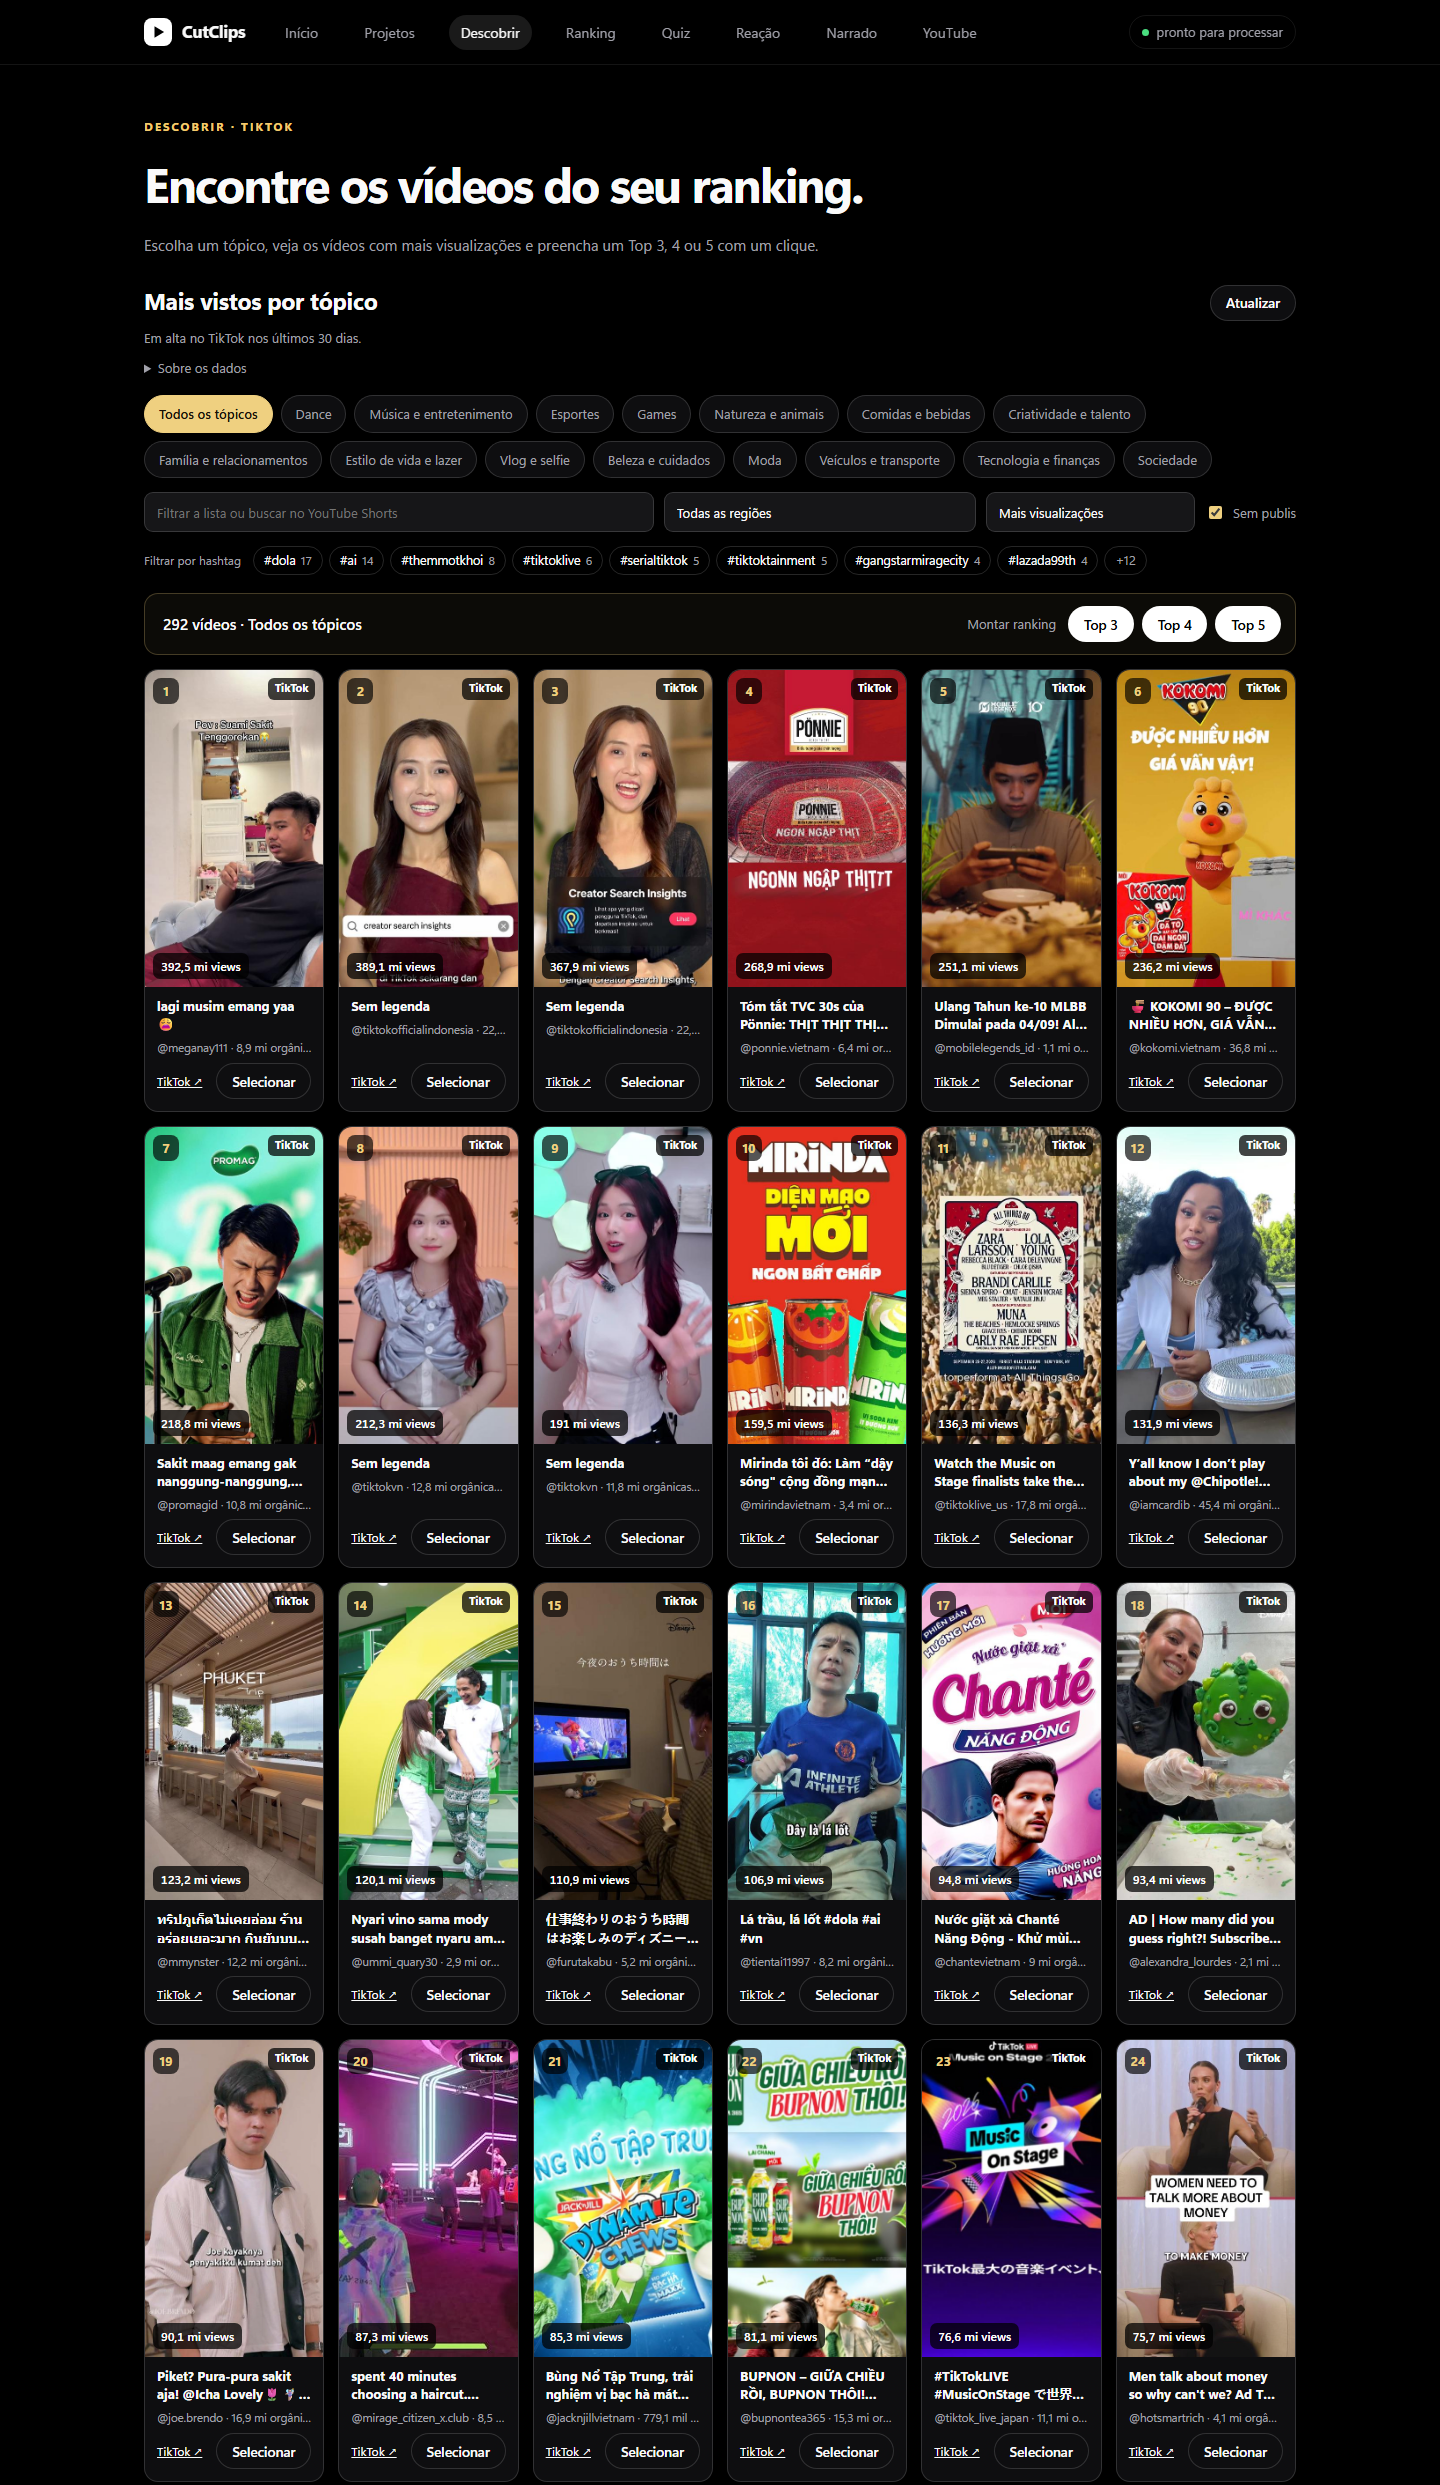
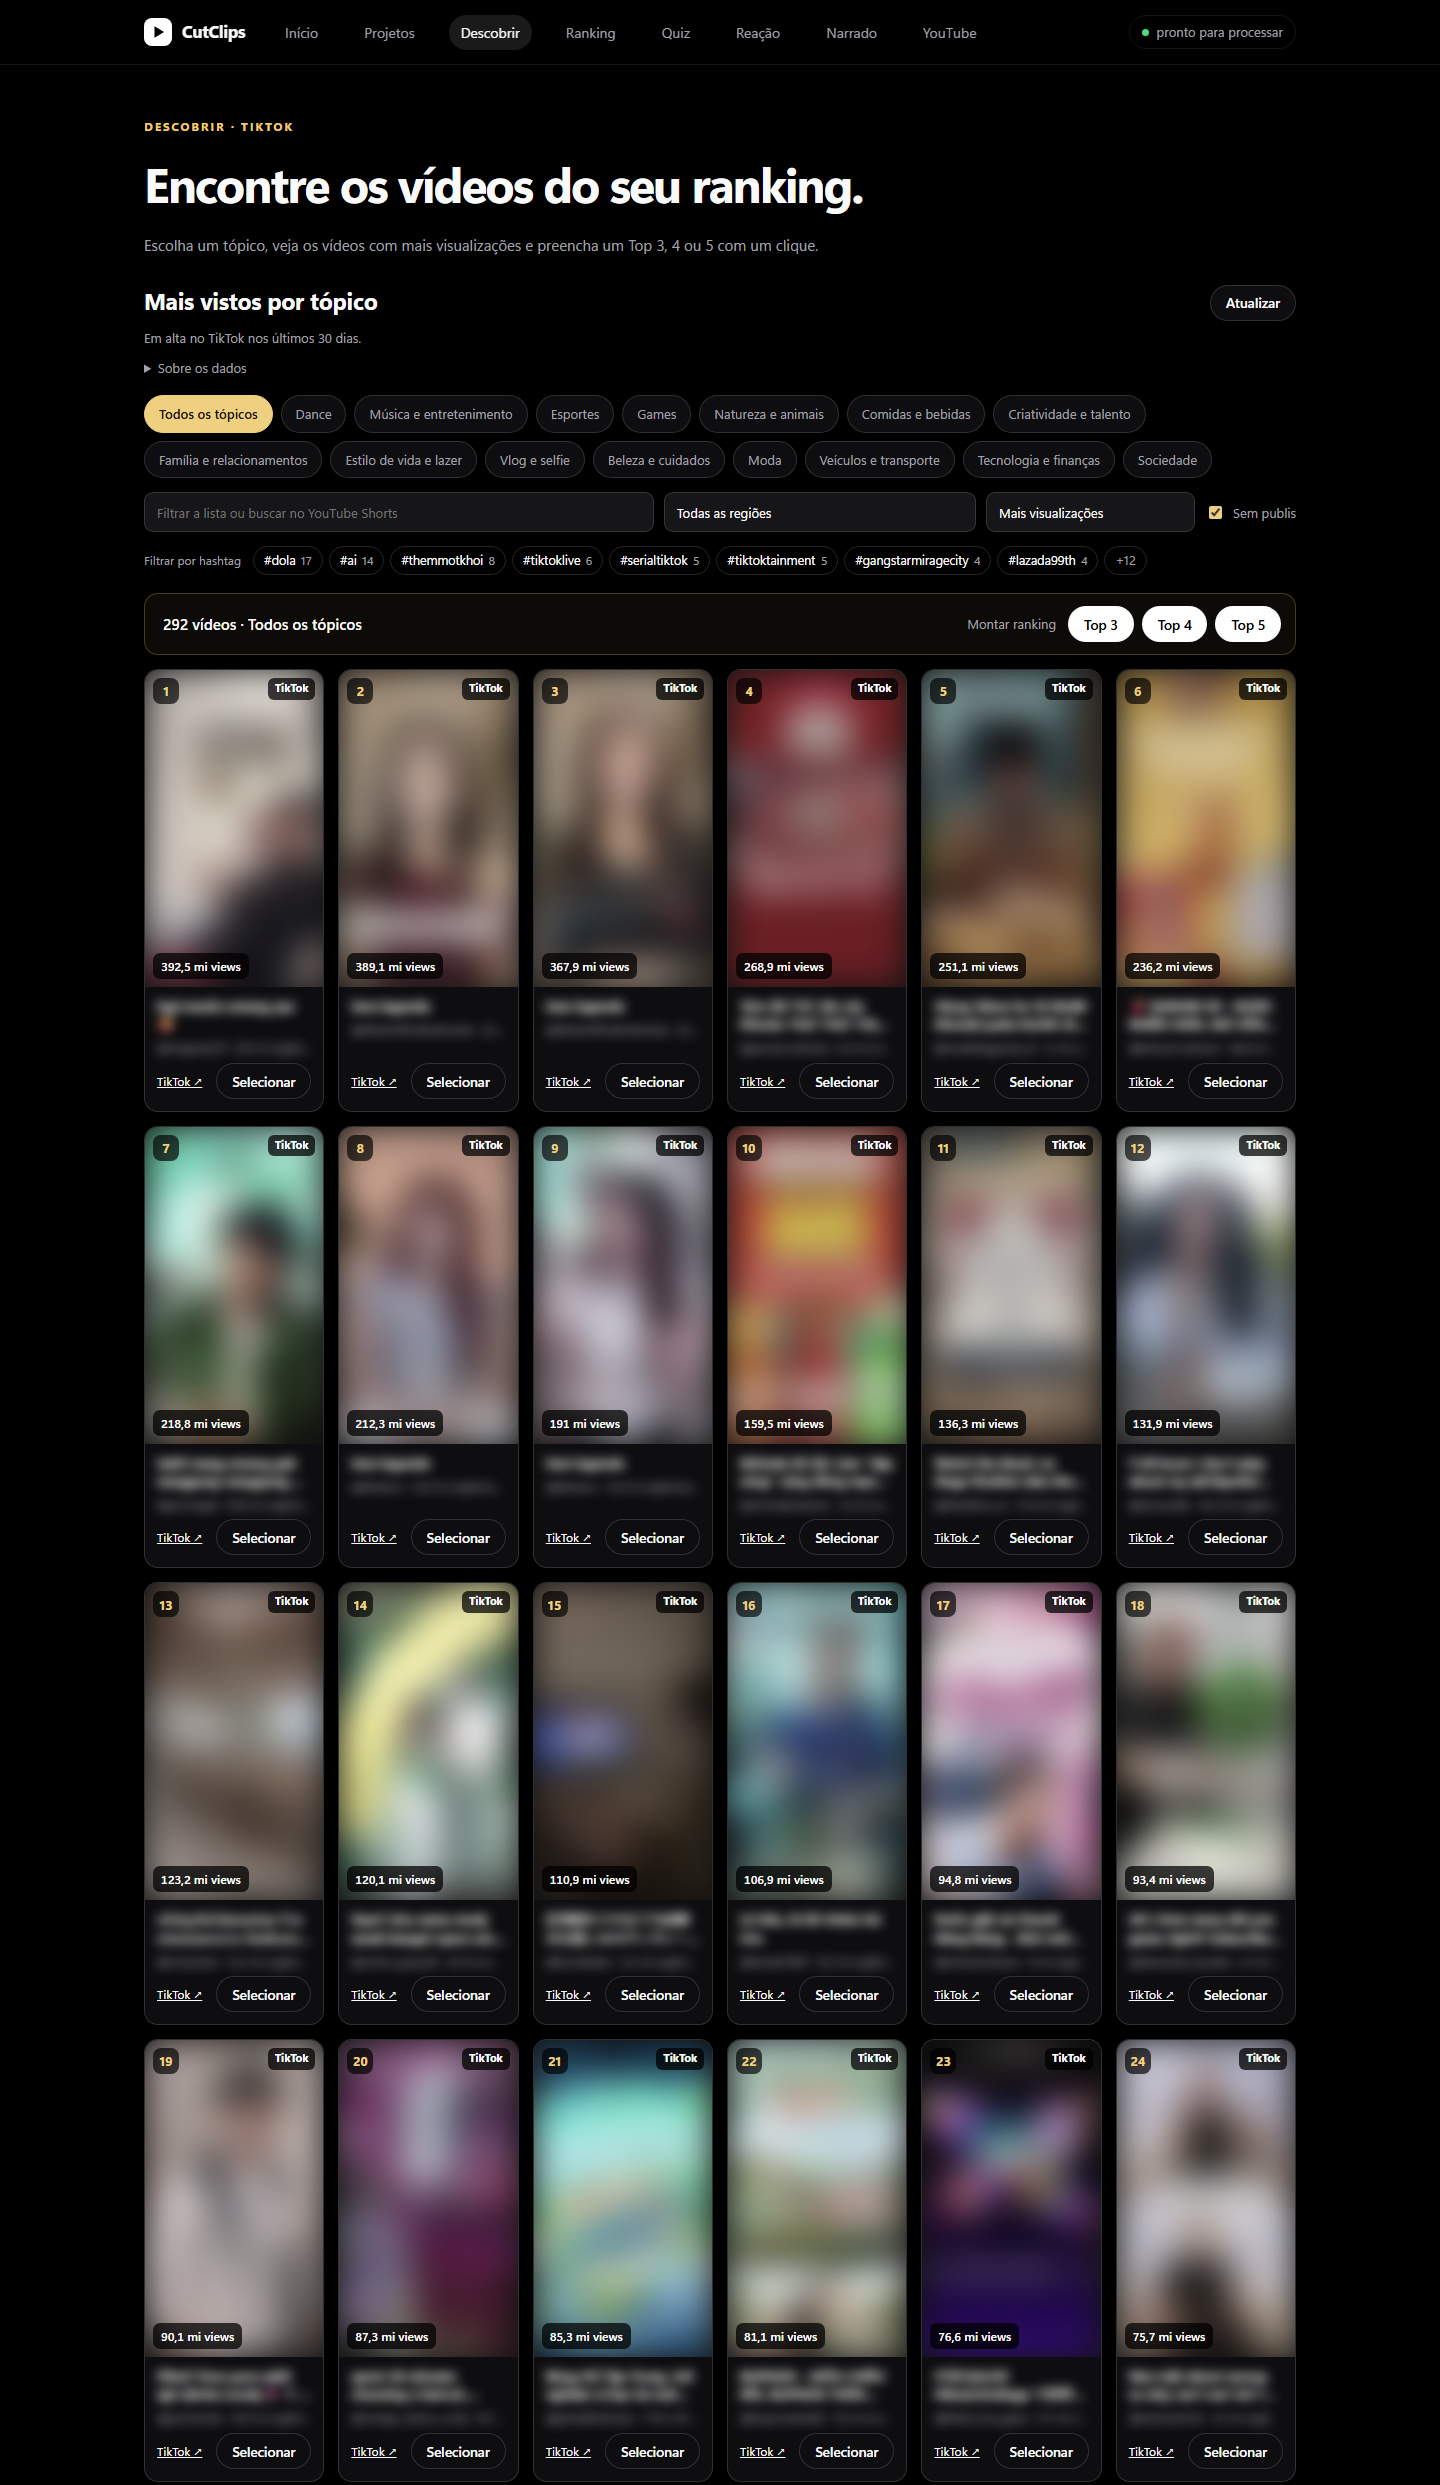
fix(web): highlight the Narrado tab and blur creators in the Discover screenshot
The route-to-tab map had no entry for #/narration, so the menu fell back
to highlighting "Início" on the narrated video page.

The Discover screenshot in the README showed faces, titles and handles of
third-party TikTok creators. It is retaken with those blurred; ranks,
view counts, topics and buttons stay readable.

diff --git a/web/index.html b/web/index.html
@@ -1291,7 +1291,7 @@ function route(){
   $("channel").hidden = location.hash !== '#/channel';
   $("project").hidden = !currentId;
   $("dropOverlay").hidden = true;
-  const tab = currentId ? "projects" : ({"#/discover": "discover", "#/top5": "top5", "#/quiz": "quiz", "#/reaction": "reaction", "#/channel": "channel"})[location.hash] || "home";
+  const tab = currentId ? "projects" : ({"#/discover": "discover", "#/top5": "top5", "#/quiz": "quiz", "#/reaction": "reaction", "#/narration": "narration", "#/channel": "channel"})[location.hash] || "home";
   document.querySelectorAll("[data-nav]").forEach(a => a.dataset.nav === tab ? a.setAttribute("aria-current", "page") : a.removeAttribute("aria-current"));
   if (currentId) {
     $("project").dataset.key = "";
